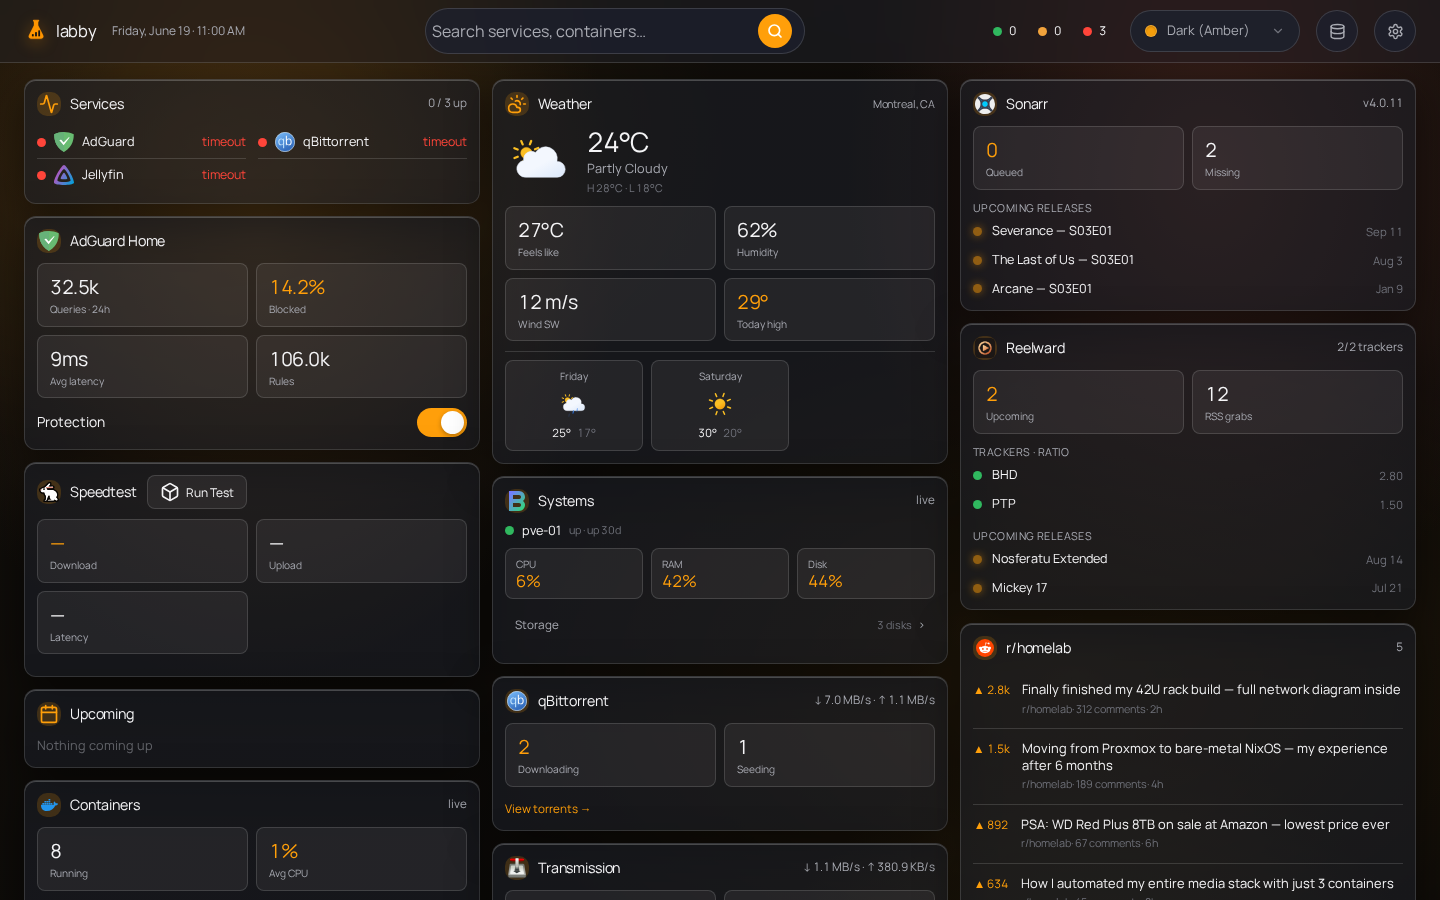
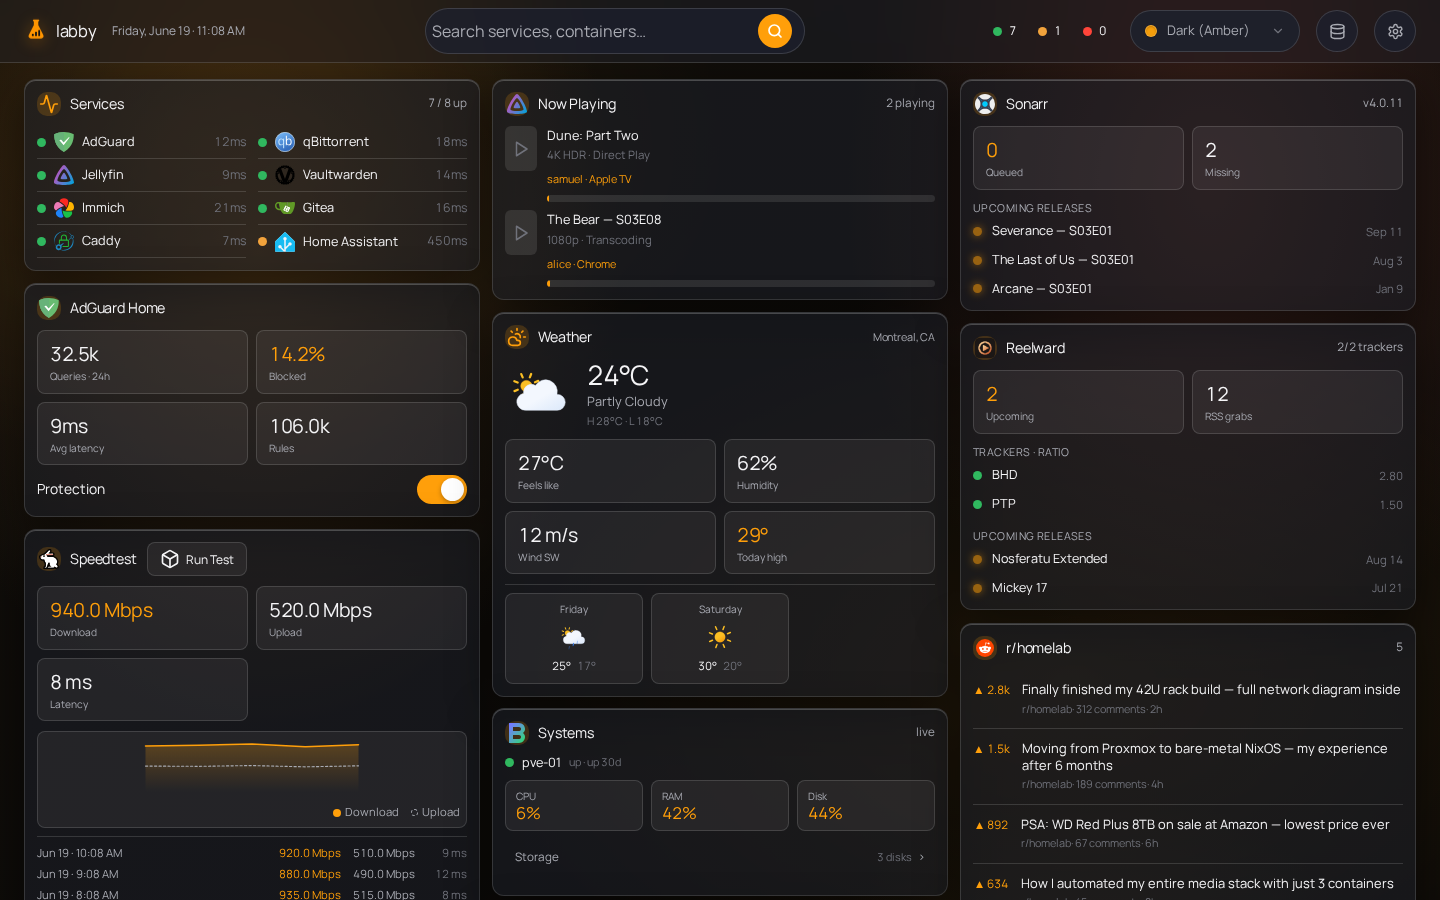
fix(screenshot): mock /api/integrations/:id/data REST prime so monitor+speedtest populate [skip ci]

diff --git a/scripts/screenshot.ts b/scripts/screenshot.ts
@@ -4,8 +4,9 @@ import { chromium } from 'playwright';
 const PORT = 8099;
 
 // Integration roster: id -> type + display name. The screenshot dashboard binds
-// each widget to one of these by integrationId, and the mock SSE feeds each
-// `int:<id>` channel the matching demo payload.
+// each widget to one of these by integrationId, and both the mock SSE channel
+// (`int:<id>`) and the REST prime endpoint (`/api/integrations/<id>/data`) serve
+// the matching demo payload below.
 const INTEGRATIONS = [
   { id: 1, type: 'monitor', name: 'Services' },
   { id: 2, type: 'adguard', name: 'AdGuard Home' },
@@ -23,6 +24,149 @@ const INTEGRATIONS = [
   { id: 14, type: 'reddit', name: 'r/homelab' },
   { id: 15, type: 'hackernews', name: 'Hacker News' },
 ];
+
+const NOW = Math.floor(Date.now() / 1000); // epoch seconds (reddit/hn createdUtc)
+const MS = Date.now(); // epoch ms (calendar start/end, speedtest createdAt)
+
+// Demo payload per integration id, keyed as the SSE event name `int:<id>`.
+// Shapes match each widget's store data exactly (see src/server/types.ts).
+const PAYLOADS: Record<string, unknown> = {
+  'int:1': {
+    sites: [
+      { title: 'AdGuard', checkUrl: 'http://adguardhome:3000', url: 'https://adguard.example.com', icon: 'di:adguard-home', status: 'up', latencyMs: 12 },
+      { title: 'qBittorrent', checkUrl: 'http://qbittorrent:8080', url: 'https://qb.example.com', icon: 'di:qbittorrent', status: 'up', latencyMs: 18 },
+      { title: 'Jellyfin', checkUrl: 'http://jellyfin:8096/health', url: 'https://jellyfin.example.com', icon: 'di:jellyfin', status: 'up', latencyMs: 9 },
+      { title: 'Vaultwarden', checkUrl: 'http://vaultwarden:80', url: 'https://vault.example.com', icon: 'di:vaultwarden', status: 'up', latencyMs: 14 },
+      { title: 'Immich', checkUrl: 'http://immich:2283', url: 'https://photos.example.com', icon: 'di:immich', status: 'up', latencyMs: 21 },
+      { title: 'Gitea', checkUrl: 'http://gitea:3000', url: 'https://git.example.com', icon: 'di:gitea', status: 'up', latencyMs: 16 },
+      { title: 'Caddy', checkUrl: 'http://caddy:2019/config', url: 'https://caddy.example.com', icon: 'di:caddy', status: 'up', latencyMs: 7 },
+      { title: 'Home Assistant', checkUrl: 'http://homeassistant:8123', url: 'https://ha.example.com', icon: 'di:home-assistant', status: 'warn', latencyMs: 450 },
+    ],
+    summary: { up: 7, warn: 1, down: 0 },
+  },
+  'int:2': { queries: 32540, blockedPercent: 14.2, avgLatencyMs: 9, rulesCount: 106000, protectionEnabled: true },
+  'int:3': {
+    latest: { id: 1, ping: 8, download: 940000000, upload: 520000000, createdAt: new Date(MS).toISOString() },
+    history: [
+      { id: 2, ping: 9, download: 920000000, upload: 510000000, createdAt: new Date(MS - 3600000).toISOString() },
+      { id: 3, ping: 12, download: 880000000, upload: 490000000, createdAt: new Date(MS - 7200000).toISOString() },
+      { id: 4, ping: 8, download: 935000000, upload: 515000000, createdAt: new Date(MS - 10800000).toISOString() },
+      { id: 5, ping: 10, download: 910000000, upload: 500000000, createdAt: new Date(MS - 14400000).toISOString() },
+      { id: 6, ping: 11, download: 895000000, upload: 505000000, createdAt: new Date(MS - 18000000).toISOString() },
+    ],
+  },
+  // CalendarEvent start/end are epoch MILLISECONDS (widget filters ev.end > Date.now()).
+  'int:4': {
+    events: [
+      { title: 'Team standup', start: MS + 3600_000, end: MS + 5400_000, allDay: false, location: 'Google Meet', calendar: 'Work' },
+      { title: 'Dentist appointment', start: MS + 86400_000, end: MS + 90000_000, allDay: false, location: '123 Main St', calendar: 'Personal' },
+      { title: 'Server maintenance window', start: MS + 172800_000, end: MS + 187200_000, allDay: true, calendar: 'Homelab' },
+    ],
+  },
+  'int:5': {
+    containers: [
+      { id: '1', name: 'jellyfin', image: 'jellyfin/jellyfin:latest', state: 'running', status: 'Up 5 days', cpuPercent: 1.2 },
+      { id: '2', name: 'caddy', image: 'caddy:2', state: 'running', status: 'Up 12 days', cpuPercent: 0.1 },
+      { id: '3', name: 'adguard', image: 'adguard/adguardhome', state: 'running', status: 'Up 3 days', cpuPercent: 0.5 },
+      { id: '4', name: 'qbittorrent', image: 'linuxserver/qbittorrent', state: 'running', status: 'Up 2 days', cpuPercent: 0.8 },
+      { id: '5', name: 'vaultwarden', image: 'vaultwarden/server', state: 'running', status: 'Up 10 days', cpuPercent: 0.2 },
+      { id: '6', name: 'immich', image: 'ghcr.io/immich-app/immich-server', state: 'running', status: 'Up 7 days', cpuPercent: 2.1 },
+      { id: '7', name: 'beszel-agent', image: 'henrygd/beszel-agent', state: 'running', status: 'Up 15 days', cpuPercent: 0.0 },
+      { id: '8', name: 'speedtest', image: 'henrygd/speedtest-tracker', state: 'running', status: 'Up 1 day', cpuPercent: 0.3 },
+    ],
+  },
+  'int:6': {
+    sessions: [
+      { id: '1', title: 'Dune: Part Two', subtitle: '4K HDR · Direct Play', user: 'samuel', device: 'Apple TV', progress: 0.45, isTranscoding: false },
+      { id: '2', title: 'The Bear — S03E08', subtitle: '1080p · Transcoding', user: 'alice', device: 'Chrome', progress: 0.78, isTranscoding: true },
+    ],
+    playing: 2,
+  },
+  'int:7': {
+    city: 'Montreal', country: 'CA', temp: 24, feelsLike: 27, tempMin: 18, tempMax: 28,
+    humidity: 62, windSpeed: 12, windDeg: 210, description: 'Partly cloudy', icon: '02d',
+    sunrise: 1687166400, sunset: 1687219200, units: 'metric',
+    forecast: [
+      { date: '2026-06-19', label: 'Tomorrow', tempMin: 19, tempMax: 29, icon: '01d' },
+      { date: '2026-06-20', label: 'Friday', tempMin: 17, tempMax: 25, icon: '10d' },
+      { date: '2026-06-21', label: 'Saturday', tempMin: 20, tempMax: 30, icon: '01d' },
+    ],
+  },
+  'int:8': {
+    systems: [
+      { id: 's1', name: 'pve-01', host: '10.0.1.10', status: 'up', cpuPercent: 14.2, memoryPercent: 57, diskPercent: 42, uptimeSeconds: 2592000, loadAvg: [0.8, 0.6, 0.5] },
+      { id: 's2', name: 'nas-01', host: '10.0.1.20', status: 'up', cpuPercent: 3.1, memoryPercent: 28, diskPercent: 71, uptimeSeconds: 5184000, loadAvg: [0.2, 0.3, 0.2] },
+      { id: 's3', name: 'rpi-dns', host: '10.0.1.5', status: 'up', cpuPercent: 1.5, memoryPercent: 42, diskPercent: 18, uptimeSeconds: 8640000, loadAvg: [0.1, 0.1, 0.1] },
+    ],
+    disks: [
+      { id: 'd1', systemId: 's1', name: '/dev/nvme0n1', model: 'Samsung 980 Pro 1TB', type: 'NVMe', state: 'healthy', tempC: 38, capacityBytes: 1000000000000, usedPercent: 42, hours: 8760, reallocatedSectors: 0, pendingSectors: 0, offlineUncorrectable: 0, mediaErrors: 0, wearPercent: 3 },
+      { id: 'd2', systemId: 's2', name: '/dev/sda', model: 'WD Red Plus 8TB', type: 'HDD', state: 'healthy', tempC: 32, capacityBytes: 8000000000000, usedPercent: 71, hours: 22000, reallocatedSectors: 0, pendingSectors: 0, offlineUncorrectable: 0, mediaErrors: 0, wearPercent: null },
+      { id: 'd3', systemId: 's2', name: '/dev/sdb', model: 'WD Red Plus 8TB', type: 'HDD', state: 'healthy', tempC: 34, capacityBytes: 8000000000000, usedPercent: 71, hours: 22000, reallocatedSectors: 0, pendingSectors: 0, offlineUncorrectable: 0, mediaErrors: 0, wearPercent: null },
+    ],
+    summary: { up: 3, down: 0, paused: 0, pending: 0, unknown: 0 },
+  },
+  'int:9': {
+    torrents: [
+      { name: 'Ubuntu 24.04.1 LTS Desktop (amd64)', progress: 100, dlSpeed: 0, upSpeed: 125000, state: 'seeding', hash: 'a1b2c3', eta: null, ratio: 2.4 },
+      { name: 'Debian 12.8 netinst (amd64)', progress: 72, dlSpeed: 4500000, upSpeed: 890000, state: 'downloading', hash: 'd4e5f6', eta: 420, ratio: 0.3 },
+      { name: 'Fedora Workstation 41 Live x86_64', progress: 45, dlSpeed: 2800000, upSpeed: 150000, state: 'downloading', hash: 'g7h8i9', eta: 1200, ratio: 0.1 },
+    ],
+    aggregateDlSpeed: 7300000, aggregateUpSpeed: 1165000,
+  },
+  'int:10': {
+    torrents: [
+      { name: 'Arch Linux 2024.12.01 (x86_64)', progress: 100, dlSpeed: 0, upSpeed: 50000, state: 'seeding', hash: 'j1k2l3', eta: null, ratio: 3.1 },
+      { name: 'openSUSE Tumbleweed DVD x86_64', progress: 88, dlSpeed: 1200000, upSpeed: 340000, state: 'downloading', hash: 'm4n5o6', eta: 180, ratio: 0.6 },
+    ],
+    aggregateDlSpeed: 1200000, aggregateUpSpeed: 390000,
+  },
+  'int:11': {
+    version: '5.14.0', queue: 1, missing: 3,
+    upcoming: [
+      { id: 'r1', title: 'Dune: Part Three', date: '2026-11-20', status: 'announced' },
+      { id: 'r2', title: 'The Batman Part II', date: '2026-10-02', status: 'announced' },
+      { id: 'r3', title: 'Blade Runner 2099', date: '2027-03-15', status: 'announced' },
+    ],
+  },
+  'int:12': {
+    version: '4.0.11', queue: 0, missing: 2,
+    upcoming: [
+      { id: 's1', title: 'Severance — S03E01', date: '2026-09-12', status: 'upcoming' },
+      { id: 's2', title: 'The Last of Us — S03E01', date: '2026-08-04', status: 'upcoming' },
+      { id: 's3', title: 'Arcane — S03E01', date: '2027-01-10', status: 'upcoming' },
+    ],
+  },
+  'int:13': {
+    upcoming: [
+      { id: 'rw1', title: 'Nosferatu Extended', date: '2026-08-15' },
+      { id: 'rw2', title: 'Mickey 17', date: '2026-07-22' },
+    ],
+    trackers: [
+      { name: 'BHD', connected: true, ratio: 2.8 },
+      { name: 'PTP', connected: true, ratio: 1.5 },
+    ],
+    rss: { status: 'ok', releasesFound: 48, releasesGrabbed: 12, nextRunAt: null },
+  },
+  'int:14': {
+    subreddit: 'r/homelab',
+    posts: [
+      { title: 'Finally finished my 42U rack build — full network diagram inside', url: 'https://reddit.com/r/homelab/1', score: 2847, comments: 312, subreddit: 'r/homelab', createdUtc: NOW - 7200 },
+      { title: 'Moving from Proxmox to bare-metal NixOS — my experience after 6 months', url: 'https://reddit.com/r/homelab/2', score: 1523, comments: 189, subreddit: 'r/homelab', createdUtc: NOW - 14400 },
+      { title: 'PSA: WD Red Plus 8TB on sale at Amazon — lowest price ever', url: 'https://reddit.com/r/homelab/3', score: 892, comments: 67, subreddit: 'r/homelab', createdUtc: NOW - 21600 },
+      { title: 'How I automated my entire media stack with just 3 containers', url: 'https://reddit.com/r/homelab/4', score: 634, comments: 45, subreddit: 'r/homelab', createdUtc: NOW - 28800 },
+      { title: 'Is anyone else running Beszel for monitoring? Just switched from Uptime Kuma', url: 'https://reddit.com/r/homelab/5', score: 421, comments: 78, subreddit: 'r/homelab', createdUtc: NOW - 36000 },
+    ],
+  },
+  'int:15': {
+    posts: [
+      { title: 'Show HN: I built a homelab dashboard that replaces 5 different tools', url: 'https://news.ycombinator.com/1', score: 547, comments: 203, author: 'labbuilder', createdUtc: NOW - 3600 },
+      { title: 'SQLite is not a toy database (2024)', url: 'https://news.ycombinator.com/2', score: 1284, comments: 412, author: 'sqlite_fan', createdUtc: NOW - 10800 },
+      { title: 'Understanding Linux networking for homelabbers', url: 'https://news.ycombinator.com/3', score: 389, comments: 92, author: 'netadmin', createdUtc: NOW - 18000 },
+      { title: 'The state of self-hosted alternatives in 2026', url: 'https://news.ycombinator.com/4', score: 721, comments: 156, author: 'selfhoster', createdUtc: NOW - 25200 },
+      { title: 'Bun 2.0 released with native SQLite improvements', url: 'https://news.ycombinator.com/5', score: 892, comments: 234, author: 'bundev', createdUtc: NOW - 32400 },
+    ],
+  },
+};
 
 async function main() {
   console.log('Starting Labby server...');
@@ -43,153 +187,10 @@ async function main() {
   const page = await context.newPage();
 
   // ── Mock the SSE stream ────────────────────────────────────────────────
-  // The real client opens one EventSource and, on connect, fetches
-  // /api/integrations then subscribes to each `int:<id>` event. We replace
-  // EventSource with a stub that replays a demo payload the moment a channel
-  // is subscribed — no race with the async integration fetch.
+  // Replace EventSource with a stub that replays a demo payload the moment a
+  // channel is subscribed (no race with the async integration fetch).
   console.log('Mocking EventSource...');
-  await page.addInitScript(() => {
-    const now = Math.floor(Date.now() / 1000);
-    const baseTime = Date.now();
-
-    // payload per integration id (keyed as the SSE event name `int:<id>`)
-    const payloads: Record<string, unknown> = {
-      'int:1': {
-        sites: [
-          { title: 'AdGuard', checkUrl: 'http://adguardhome:3000', url: 'https://adguard.example.com', icon: 'di:adguard-home', status: 'up', latencyMs: 12 },
-          { title: 'qBittorrent', checkUrl: 'http://qbittorrent:8080', url: 'https://qb.example.com', icon: 'di:qbittorrent', status: 'up', latencyMs: 18 },
-          { title: 'Jellyfin', checkUrl: 'http://jellyfin:8096/health', url: 'https://jellyfin.example.com', icon: 'di:jellyfin', status: 'up', latencyMs: 9 },
-          { title: 'Vaultwarden', checkUrl: 'http://vaultwarden:80', url: 'https://vault.example.com', icon: 'di:vaultwarden', status: 'up', latencyMs: 14 },
-          { title: 'Immich', checkUrl: 'http://immich:2283', url: 'https://photos.example.com', icon: 'di:immich', status: 'up', latencyMs: 21 },
-          { title: 'Gitea', checkUrl: 'http://gitea:3000', url: 'https://git.example.com', icon: 'di:gitea', status: 'up', latencyMs: 16 },
-          { title: 'Caddy', checkUrl: 'http://caddy:2019/config', url: 'https://caddy.example.com', icon: 'di:caddy', status: 'up', latencyMs: 7 },
-          { title: 'Home Assistant', checkUrl: 'http://homeassistant:8123', url: 'https://ha.example.com', icon: 'di:home-assistant', status: 'warn', latencyMs: 450 },
-        ],
-        summary: { up: 7, warn: 1, down: 0 },
-      },
-      'int:2': { queries: 32540, blockedPercent: 14.2, avgLatencyMs: 9, rulesCount: 106000, protectionEnabled: true },
-      'int:3': {
-        latest: { id: 1, ping: 8, download: 940000000, upload: 520000000, createdAt: new Date(baseTime).toISOString() },
-        history: [
-          { id: 2, ping: 9, download: 920000000, upload: 510000000, createdAt: new Date(baseTime - 3600000).toISOString() },
-          { id: 3, ping: 12, download: 880000000, upload: 490000000, createdAt: new Date(baseTime - 7200000).toISOString() },
-          { id: 4, ping: 8, download: 935000000, upload: 515000000, createdAt: new Date(baseTime - 10800000).toISOString() },
-          { id: 5, ping: 10, download: 910000000, upload: 500000000, createdAt: new Date(baseTime - 14400000).toISOString() },
-          { id: 6, ping: 11, download: 895000000, upload: 505000000, createdAt: new Date(baseTime - 18000000).toISOString() },
-        ],
-      },
-      'int:4': {
-        events: [
-          { title: 'Team standup', start: now + 3600, end: now + 5400, allDay: false, location: 'Google Meet', calendar: 'Work' },
-          { title: 'Dentist appointment', start: now + 86400, end: now + 90000, allDay: false, location: '123 Main St', calendar: 'Personal' },
-          { title: 'Server maintenance window', start: now + 172800, end: now + 187200, allDay: true, calendar: 'Homelab' },
-        ],
-      },
-      'int:5': {
-        containers: [
-          { id: '1', name: 'jellyfin', image: 'jellyfin/jellyfin:latest', state: 'running', status: 'Up 5 days', cpuPercent: 1.2 },
-          { id: '2', name: 'caddy', image: 'caddy:2', state: 'running', status: 'Up 12 days', cpuPercent: 0.1 },
-          { id: '3', name: 'adguard', image: 'adguard/adguardhome', state: 'running', status: 'Up 3 days', cpuPercent: 0.5 },
-          { id: '4', name: 'qbittorrent', image: 'linuxserver/qbittorrent', state: 'running', status: 'Up 2 days', cpuPercent: 0.8 },
-          { id: '5', name: 'vaultwarden', image: 'vaultwarden/server', state: 'running', status: 'Up 10 days', cpuPercent: 0.2 },
-          { id: '6', name: 'immich', image: 'ghcr.io/immich-app/immich-server', state: 'running', status: 'Up 7 days', cpuPercent: 2.1 },
-          { id: '7', name: 'beszel-agent', image: 'henrygd/beszel-agent', state: 'running', status: 'Up 15 days', cpuPercent: 0.0 },
-          { id: '8', name: 'speedtest', image: 'henrygd/speedtest-tracker', state: 'running', status: 'Up 1 day', cpuPercent: 0.3 },
-        ],
-      },
-      'int:6': {
-        sessions: [
-          { id: '1', title: 'Dune: Part Two', subtitle: '4K HDR · Direct Play', user: 'samuel', device: 'Apple TV', progress: 0.45, isTranscoding: false },
-          { id: '2', title: 'The Bear — S03E08', subtitle: '1080p · Transcoding', user: 'alice', device: 'Chrome', progress: 0.78, isTranscoding: true },
-        ],
-        playing: 2,
-      },
-      'int:7': {
-        city: 'Montreal', country: 'CA', temp: 24, feelsLike: 27, tempMin: 18, tempMax: 28,
-        humidity: 62, windSpeed: 12, windDeg: 210, description: 'Partly cloudy', icon: '02d',
-        sunrise: 1687166400, sunset: 1687219200, units: 'metric',
-        forecast: [
-          { date: '2026-06-19', label: 'Tomorrow', tempMin: 19, tempMax: 29, icon: '01d' },
-          { date: '2026-06-20', label: 'Friday', tempMin: 17, tempMax: 25, icon: '10d' },
-          { date: '2026-06-21', label: 'Saturday', tempMin: 20, tempMax: 30, icon: '01d' },
-        ],
-      },
-      'int:8': {
-        systems: [
-          { id: 's1', name: 'pve-01', host: '10.0.1.10', status: 'up', cpuPercent: 14.2, memoryPercent: 57, diskPercent: 42, uptimeSeconds: 2592000, loadAvg: [0.8, 0.6, 0.5] },
-          { id: 's2', name: 'nas-01', host: '10.0.1.20', status: 'up', cpuPercent: 3.1, memoryPercent: 28, diskPercent: 71, uptimeSeconds: 5184000, loadAvg: [0.2, 0.3, 0.2] },
-          { id: 's3', name: 'rpi-dns', host: '10.0.1.5', status: 'up', cpuPercent: 1.5, memoryPercent: 42, diskPercent: 18, uptimeSeconds: 8640000, loadAvg: [0.1, 0.1, 0.1] },
-        ],
-        disks: [
-          { id: 'd1', systemId: 's1', name: '/dev/nvme0n1', model: 'Samsung 980 Pro 1TB', type: 'NVMe', state: 'healthy', tempC: 38, capacityBytes: 1000000000000, usedPercent: 42, hours: 8760, reallocatedSectors: 0, pendingSectors: 0, offlineUncorrectable: 0, mediaErrors: 0, wearPercent: 3 },
-          { id: 'd2', systemId: 's2', name: '/dev/sda', model: 'WD Red Plus 8TB', type: 'HDD', state: 'healthy', tempC: 32, capacityBytes: 8000000000000, usedPercent: 71, hours: 22000, reallocatedSectors: 0, pendingSectors: 0, offlineUncorrectable: 0, mediaErrors: 0, wearPercent: null },
-          { id: 'd3', systemId: 's2', name: '/dev/sdb', model: 'WD Red Plus 8TB', type: 'HDD', state: 'healthy', tempC: 34, capacityBytes: 8000000000000, usedPercent: 71, hours: 22000, reallocatedSectors: 0, pendingSectors: 0, offlineUncorrectable: 0, mediaErrors: 0, wearPercent: null },
-        ],
-        summary: { up: 3, down: 0, paused: 0, pending: 0, unknown: 0 },
-      },
-      'int:9': {
-        torrents: [
-          { name: 'Ubuntu 24.04.1 LTS Desktop (amd64)', progress: 100, dlSpeed: 0, upSpeed: 125000, state: 'seeding', hash: 'a1b2c3', eta: null, ratio: 2.4 },
-          { name: 'Debian 12.8 netinst (amd64)', progress: 72, dlSpeed: 4500000, upSpeed: 890000, state: 'downloading', hash: 'd4e5f6', eta: 420, ratio: 0.3 },
-          { name: 'Fedora Workstation 41 Live x86_64', progress: 45, dlSpeed: 2800000, upSpeed: 150000, state: 'downloading', hash: 'g7h8i9', eta: 1200, ratio: 0.1 },
-        ],
-        aggregateDlSpeed: 7300000, aggregateUpSpeed: 1165000,
-      },
-      'int:10': {
-        torrents: [
-          { name: 'Arch Linux 2024.12.01 (x86_64)', progress: 100, dlSpeed: 0, upSpeed: 50000, state: 'seeding', hash: 'j1k2l3', eta: null, ratio: 3.1 },
-          { name: 'openSUSE Tumbleweed DVD x86_64', progress: 88, dlSpeed: 1200000, upSpeed: 340000, state: 'downloading', hash: 'm4n5o6', eta: 180, ratio: 0.6 },
-        ],
-        aggregateDlSpeed: 1200000, aggregateUpSpeed: 390000,
-      },
-      'int:11': {
-        version: '5.14.0', queue: 1, missing: 3,
-        upcoming: [
-          { id: 'r1', title: 'Dune: Part Three', date: '2026-11-20', status: 'announced' },
-          { id: 'r2', title: 'The Batman Part II', date: '2026-10-02', status: 'announced' },
-          { id: 'r3', title: 'Blade Runner 2099', date: '2027-03-15', status: 'announced' },
-        ],
-      },
-      'int:12': {
-        version: '4.0.11', queue: 0, missing: 2,
-        upcoming: [
-          { id: 's1', title: 'Severance — S03E01', date: '2026-09-12', status: 'upcoming' },
-          { id: 's2', title: 'The Last of Us — S03E01', date: '2026-08-04', status: 'upcoming' },
-          { id: 's3', title: 'Arcane — S03E01', date: '2027-01-10', status: 'upcoming' },
-        ],
-      },
-      'int:13': {
-        upcoming: [
-          { id: 'rw1', title: 'Nosferatu Extended', date: '2026-08-15' },
-          { id: 'rw2', title: 'Mickey 17', date: '2026-07-22' },
-        ],
-        trackers: [
-          { name: 'BHD', connected: true, ratio: 2.8 },
-          { name: 'PTP', connected: true, ratio: 1.5 },
-        ],
-        rss: { status: 'ok', releasesFound: 48, releasesGrabbed: 12, nextRunAt: null },
-      },
-      'int:14': {
-        subreddit: 'r/homelab',
-        posts: [
-          { title: 'Finally finished my 42U rack build — full network diagram inside', url: 'https://reddit.com/r/homelab/1', score: 2847, comments: 312, subreddit: 'r/homelab', createdUtc: now - 7200 },
-          { title: 'Moving from Proxmox to bare-metal NixOS — my experience after 6 months', url: 'https://reddit.com/r/homelab/2', score: 1523, comments: 189, subreddit: 'r/homelab', createdUtc: now - 14400 },
-          { title: 'PSA: WD Red Plus 8TB on sale at Amazon — lowest price ever', url: 'https://reddit.com/r/homelab/3', score: 892, comments: 67, subreddit: 'r/homelab', createdUtc: now - 21600 },
-          { title: 'How I automated my entire media stack with just 3 containers', url: 'https://reddit.com/r/homelab/4', score: 634, comments: 45, subreddit: 'r/homelab', createdUtc: now - 28800 },
-          { title: 'Is anyone else running Beszel for monitoring? Just switched from Uptime Kuma', url: 'https://reddit.com/r/homelab/5', score: 421, comments: 78, subreddit: 'r/homelab', createdUtc: now - 36000 },
-        ],
-      },
-      'int:15': {
-        posts: [
-          { title: 'Show HN: I built a homelab dashboard that replaces 5 different tools', url: 'https://news.ycombinator.com/1', score: 547, comments: 203, author: 'labbuilder', createdUtc: now - 3600 },
-          { title: 'SQLite is not a toy database (2024)', url: 'https://news.ycombinator.com/2', score: 1284, comments: 412, author: 'sqlite_fan', createdUtc: now - 10800 },
-          { title: 'Understanding Linux networking for homelabbers', url: 'https://news.ycombinator.com/3', score: 389, comments: 92, author: 'netadmin', createdUtc: now - 18000 },
-          { title: 'The state of self-hosted alternatives in 2026', url: 'https://news.ycombinator.com/4', score: 721, comments: 156, author: 'selfhoster', createdUtc: now - 25200 },
-          { title: 'Bun 2.0 released with native SQLite improvements', url: 'https://news.ycombinator.com/5', score: 892, comments: 234, author: 'bundev', createdUtc: now - 32400 },
-        ],
-      },
-    };
-
+  await page.addInitScript((payloads: Record<string, unknown>) => {
     class MockEventSource {
       url: string;
       onopen?: () => void;
@@ -198,13 +199,11 @@ async function main() {
 
       constructor(url: string) {
         this.url = url;
-        // fire open so the client proceeds to fetch /api/integrations + subscribe
         setTimeout(() => this.onopen?.(), 80);
       }
 
       addEventListener(event: string, handler: (e: MessageEvent) => void) {
         (this._listeners[event] ??= []).push(handler);
-        // replay this channel's snapshot as soon as it's subscribed
         if (event in payloads) {
           const e = new Event(event) as MessageEvent;
           (e as unknown as { data: string }).data = JSON.stringify(payloads[event]);
@@ -215,10 +214,10 @@ async function main() {
       close() {}
     }
     (window as unknown as { EventSource: unknown }).EventSource = MockEventSource;
-  });
+  }, PAYLOADS);
 
   // ── Mock /api/integrations: the roster the client subscribes against ────
-  console.log('Mocking integrations endpoint...');
+  console.log('Mocking integrations endpoints...');
   await page.route('**/api/integrations', async (route) => {
     await route.fulfill({
       status: 200,
@@ -226,6 +225,19 @@ async function main() {
       body: JSON.stringify(
         INTEGRATIONS.map((i) => ({ id: i.id, name: i.name, type: i.type, config: {}, enabled: true, refreshSeconds: null })),
       ),
+    });
+  });
+
+  // ── Mock /api/integrations/<id>/data: the client primes each widget over
+  //     REST in parallel with SSE; serve the same demo payload so the real
+  //     (unconfigured) server never wins the race. ───────────────────────
+  await page.route('**/api/integrations/*/data', async (route) => {
+    const id = route.request().url().match(/\/integrations\/(\d+)\/data/)?.[1];
+    const payload = id ? PAYLOADS[`int:${id}`] : undefined;
+    await route.fulfill({
+      status: payload ? 200 : 404,
+      contentType: 'application/json',
+      body: JSON.stringify(payload ?? { error: 'not found' }),
     });
   });
 